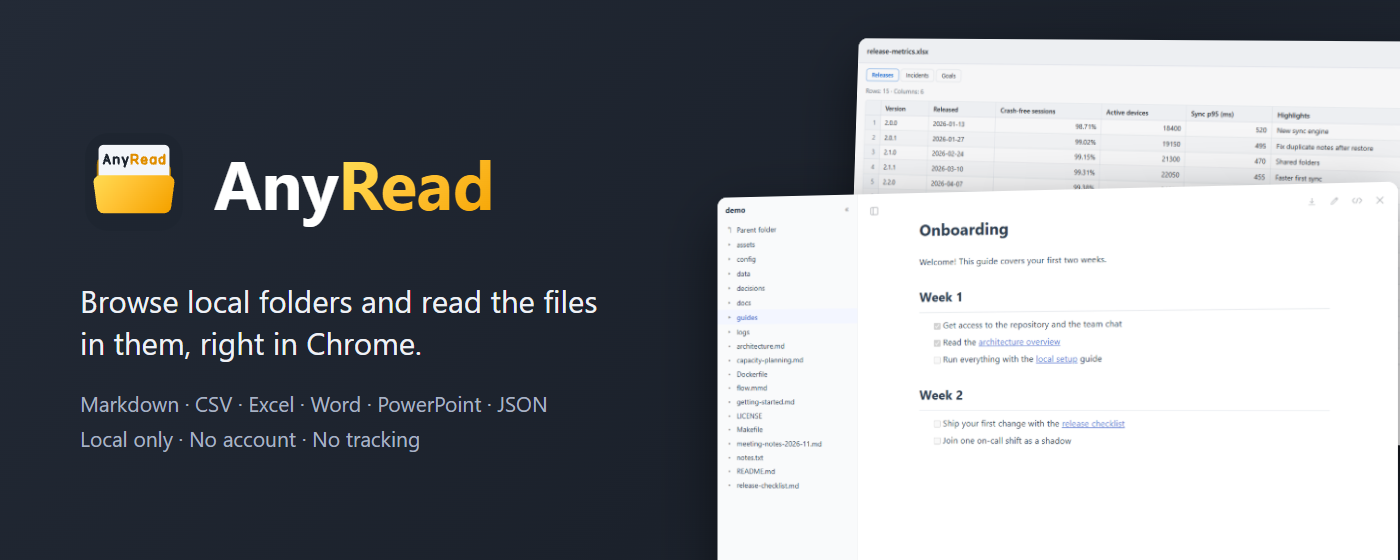
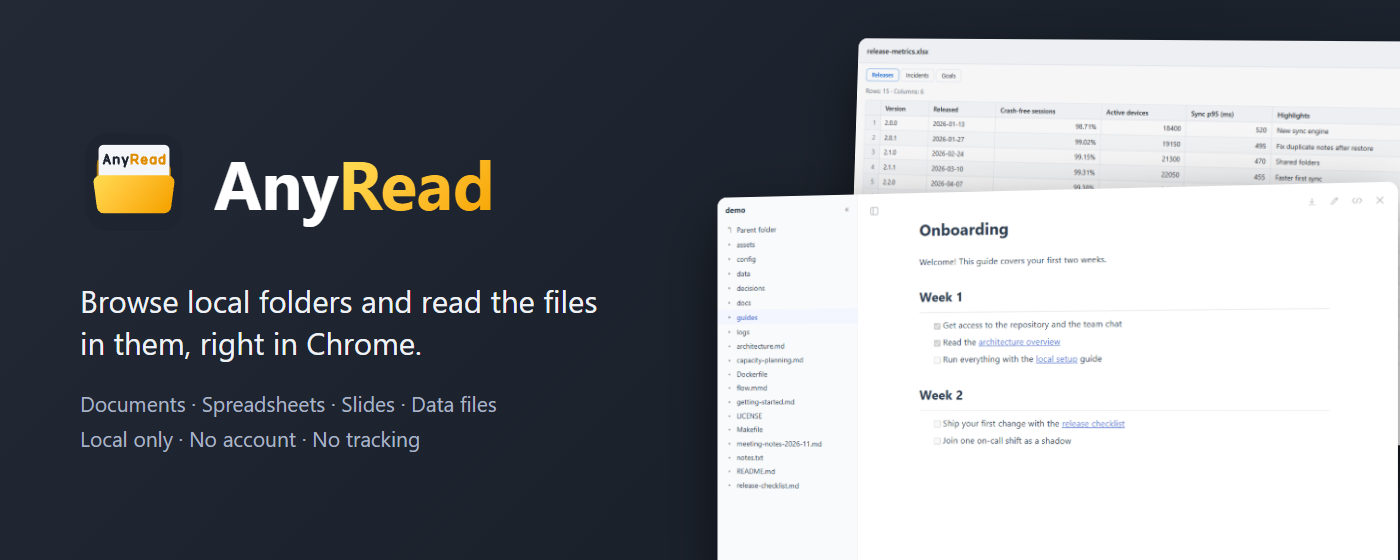
Store texts name kinds of files, not lists of formats
The store rejected the listing as keyword spam (Yellow Argon), for the
line listing JSON, YAML, TOML, INI, .env, .gitignore, Dockerfile and
more. The summary, the description and the marquee now say documents,
spreadsheets, slides and data files instead; repeated items are gone.
The 1.4.0 notes say so, and name the new zips and repository.

Changed region(s): [[0.0614, 0.6982, 0.3993, 0.7589]]

diff --git a/release-notes/v1.4.0.md b/release-notes/v1.4.0.md
@@ -4,18 +4,18 @@ AnyRead MD 改名為 **AnyRead – 瀏覽與閱讀本機檔案**（英文：AnyR
 
 - **新圖示**：資料夾裡露出一頁寫著 AnyRead 的文件。顏色和原本一樣，深色底配黃色。
 - **介面和文件**：介面、README、隱私權說明、商店介紹裡的「AnyRead MD」都改成「AnyRead」；工具列上的圖示也改叫「AnyRead 圖示」。
-- **商店介紹**：簡短說明和介紹改成先講瀏覽資料夾，並列出支援的檔案類型；宣傳圖換成資料夾頁。
+- **商店介紹**：簡短說明和介紹改成先講瀏覽資料夾，支援的檔案用類別介紹（文件、試算表、簡報、資料檔）；宣傳圖換成資料夾頁。
 
 ### 不變的
 
 - 擴充功能還是同一個：已經安裝的不用重裝，設定、最近開過的檔案、允許過的網站都留著。
 - 以前存的設定檔照樣可以「從檔案還原」。
-- 功能沒有改變。GitHub 專案和 zip 檔名（`anyread-md-<版本>.zip`）也維持原樣。
+- 功能沒有改變。GitHub 專案改名為 AnyRead（舊網址會自動轉過去），zip 檔名改成 `anyread-<版本>.zip`。
 
 ## 下載
 
-- `anyread-md-1.4.0.zip`：手動安裝用，安裝方式見 README。
-- `anyread-md-1.4.0-store.zip`：上傳 Chrome 線上應用程式商店用。
+- `anyread-1.4.0.zip`：手動安裝用，安裝方式見 README。
+- `anyread-1.4.0-store.zip`：上傳 Chrome 線上應用程式商店用。
 
 ---
 
@@ -27,10 +27,10 @@ AnyRead MD is now **AnyRead – Browse & Read Local Files**. It has long been mo
 
 - **New icon**: a folder with a page showing AnyRead. Same colors as before, yellow on dark.
 - **Interface and documents**: "AnyRead MD" is now "AnyRead" in the interface, the READMEs, the privacy policy and the store listing; the toolbar button is called the "AnyRead icon".
-- **Store listing**: the summary and description now start with browsing folders and list the file types; the promo images show the folder page.
+- **Store listing**: the summary and description now start with browsing folders and describe the files by kind (documents, spreadsheets, slides, data files); the promo images show the folder page.
 
 **What stays the same**
 
 - It is the same extension: nothing to reinstall, and your settings, recent files and allowed sites stay.
 - Settings files saved before still load with "Restore from a file".
-- No features changed. The GitHub project and the zip names (`anyread-md-<version>.zip`) stay as they are.
+- No features changed. The GitHub project is now AnyRead (the old address redirects), and the zips are named `anyread-<version>.zip`.
